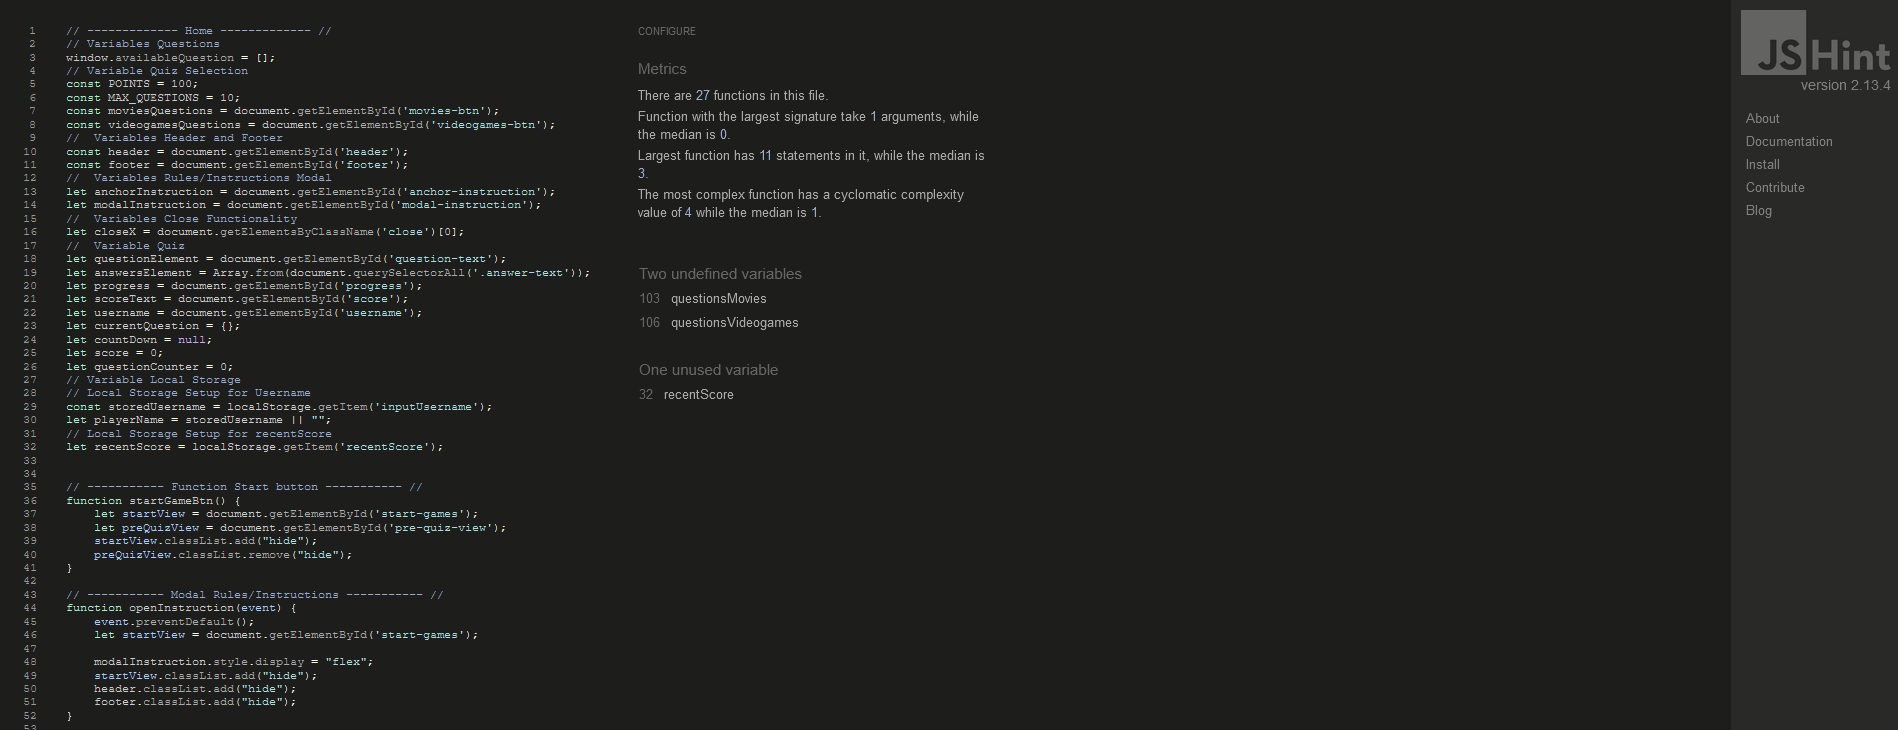
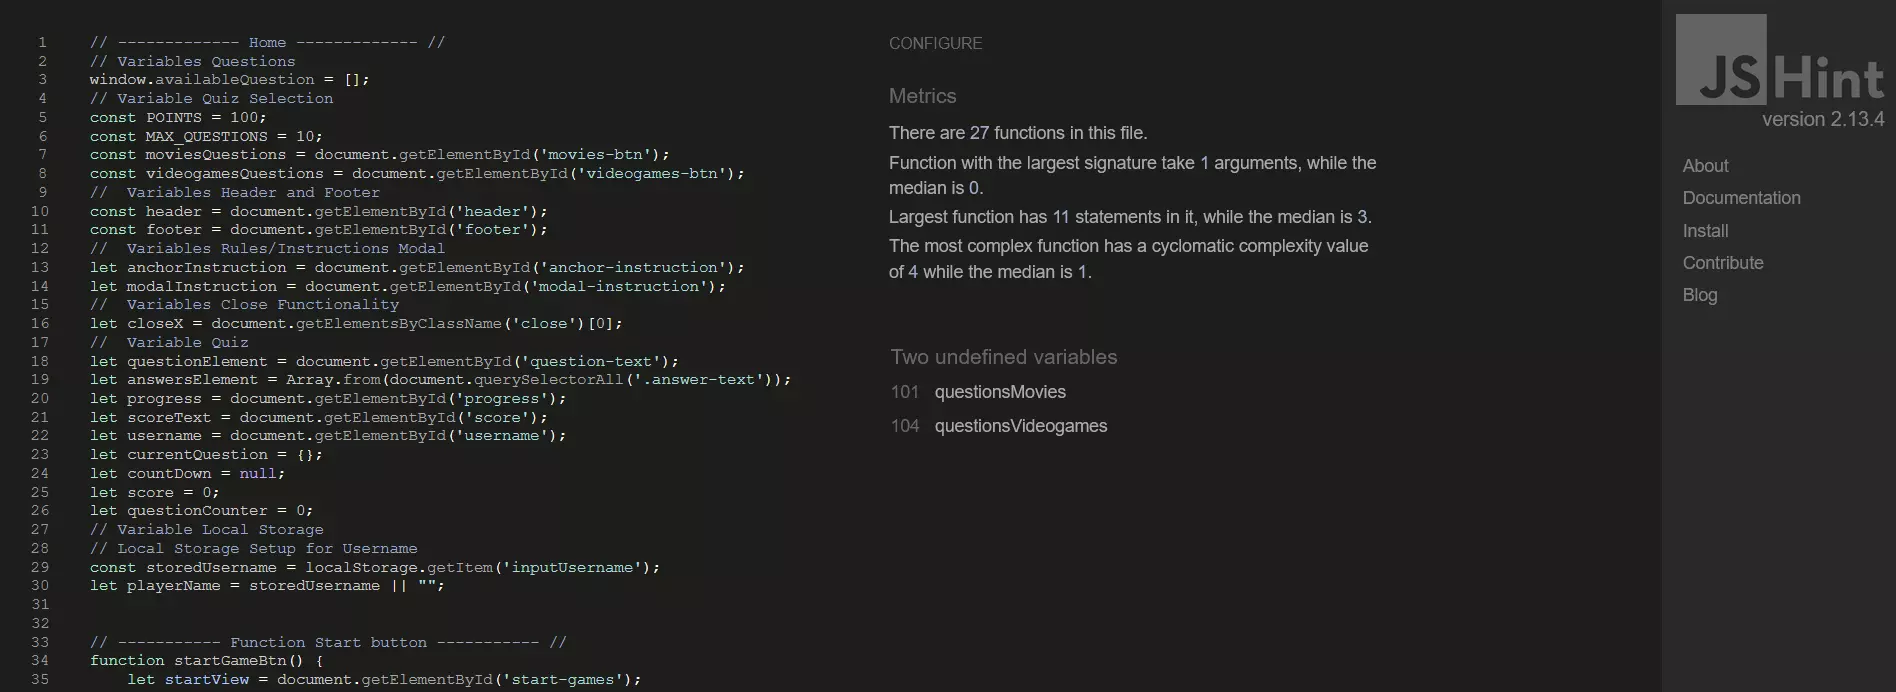
docs: Add jshint images to Readme file and correct typos

diff --git a/assets/js/contact-us.js b/assets/js/contact-us.js
@@ -1,6 +1,5 @@
 // ------------- Contact Us ------------- //
 // ------------- Variables ------------- //
-let userComment = document.getElementById('user-comment');
 let radioTextArea = document.querySelectorAll('input[type=radio][name="form_nfrb"]');
 let resetBtn = document.getElementById('btn-reset');
 
@@ -8,6 +7,7 @@ let resetBtn = document.getElementById('btn-reset');
 function showTextArea() {
     for (let radio of radioTextArea) {
         radio.addEventListener('change', function () {
+            let userComment = document.getElementById('user-comment');
             switch (this.value) {
                 case 'newsletter':
                     userComment.classList.add('hide');
@@ -24,6 +24,7 @@ function showTextArea() {
 }
 
 function hideTextArea() {
+    let userComment = document.getElementById('user-comment');
     resetBtn.addEventListener('click', function () {
         userComment.classList.add('hide');
     });

diff --git a/assets/js/script.js b/assets/js/script.js
@@ -25,11 +25,9 @@ let countDown = null;
 let score = 0;
 let questionCounter = 0;
 // Variable Local Storage
-// Local Storage Setup for Username
+// Username
 const storedUsername = localStorage.getItem('inputUsername');
 let playerName = storedUsername || "";
-// Local Storage Setup for recentScore
-let recentScore = localStorage.getItem('recentScore');
 
 
 // ----------- Function Start button ----------- //

diff --git a/assets/js/quiz-score.js b/assets/js/quiz-score.js
@@ -1,3 +1,5 @@
+/*jshint esversion: 8 */
+
 // ------------- Variable for the API and the Score Limit ------------- //
 const API_URL = "https://quizforfundb-d21e.restdb.io/rest/quiz-for-fun";
 const API_KEY = "621d964834fd621565858a7b";

diff --git a/README.md b/README.md
@@ -11,7 +11,7 @@
 #### Good luck, enjoy the questions and might the force be with you! 
 
 
-<a href="https://ccrocilla.github.io/quiz-for-fun/" target="_blank" rel="noopener noreferrer"><img src="assets/images-readme/amiresponsive.webp" alt="Home Page" width="800px"/></a>
+<a href="https://ccrocilla.github.io/quiz-for-fun/" target="_blank" rel="noopener noreferrer"><img src="assets/images-readme/amiresponsive.webp" alt="Home Page" width="1000px"/></a>
 
 #### Click in the image above to access the Live Website or [click here!](https://ccrocilla.github.io/quiz-for-fun/ "Quiz For Fun")
 
@@ -220,8 +220,8 @@ Sources:
 
 ## **Features**
 - ### *__Structure__*:
-The Website is composed of 5 different pages. Each of these pages has been structured in a simple, easy and user-friendly way. 
-The Structure of the website and the components used are listed below:
+#### The Website is composed of 5 different pages. Each of these pages has been structured in a simple, easy and user-friendly way. 
+#### The Structure of the website and the components used are listed below:
 
 
 - ### *__Home Page__*:
@@ -263,14 +263,14 @@ The Structure of the website and the components used are listed below:
 
 
 - ### *__Thank you page__*:
-This page will be triggered when the user clicks on the Submit Button in Contact Us Page. 
-The page is characterized by an image extended as background overlaid by a clear message for the user.
-This page is used to let the user know that the feedback or the issue/bug has been reported correctly.
-The users also have the possibility to click on the Home button to navigate back to the Home Page. 
+#### This page will be triggered when the user clicks on the Submit Button in Contact Us Page. 
+#### The page is characterized by an image extended as background overlaid by a clear message for the user.
+#### This page is used to let the user know that the feedback or the issue/bug has been reported correctly.
+#### The users also have the possibility to click on the Home button to navigate back to the Home Page. 
 
 - ### *__404 Error Page__*:
-For any broken or incorrect links, the 404 Error page will be triggered. Here the user will have an image displayed in the background and above a text box that will inform the users that the page is not correct. 
-The users also have the possibility to click on the Home button to navigate back to the Home Page. 
+#### For any broken or incorrect links, the 404 Error page will be triggered. Here the user will have an image displayed in the background and above a text box that will inform the users that the page is not correct. 
+#### The users also have the possibility to click on the Home button to navigate back to the Home Page. 
  
 ---
 
@@ -282,7 +282,7 @@ The users also have the possibility to click on the Home button to navigate back
 - ## Home Page 
 <details>
     <summary>Click here for Desktop View</summary>  
-<img src="assets/images-readme/homepage-desktop.webp" alt="Desktop View Homepage" width="800px"/>
+<img src="assets/images-readme/homepage-desktop.webp" alt="Desktop View Homepage" width="1000px"/>
 </details>
 
 <details>
@@ -298,7 +298,7 @@ The users also have the possibility to click on the Home button to navigate back
 - ## Rules Modal 
 <details>
     <summary>Click here for Desktop View</summary>  
-<img src="assets/images-readme/rules-modal-desktop.webp" alt="Desktop View Rules Modal" width="800px"/>
+<img src="assets/images-readme/rules-modal-desktop.webp" alt="Desktop View Rules Modal" width="1000px"/>
 </details>
 
 <details>
@@ -314,7 +314,7 @@ The users also have the possibility to click on the Home button to navigate back
 - ## Pre-Quiz Area
 <details>
     <summary>Click here for Desktop View</summary>
-<img src="assets/images-readme/prequiz-desktop.webp" alt="Desktop View Pre-Quiz" width="800px"/>
+<img src="assets/images-readme/prequiz-desktop.webp" alt="Desktop View Pre-Quiz" width="1000px"/>
 </details>
 
 <details>
@@ -330,7 +330,7 @@ The users also have the possibility to click on the Home button to navigate back
 - ## Quiz Area
 <details>
     <summary>Click here for Desktop View</summary>
-<img src="assets/images-readme/quiz-desktop.webp" alt="Desktop View Share Page" width="800px"/>
+<img src="assets/images-readme/quiz-desktop.webp" alt="Desktop View Share Page" width="1000px"/>
 </details>
 
 <details>
@@ -343,10 +343,26 @@ The users also have the possibility to click on the Home button to navigate back
 <img src="assets/images-readme/quiz-smartphone.webp" alt="Smartphone View Share Page" width="400px"/>
 </details>
 
+- ## Scores
+<details>
+    <summary>Click here for Desktop View</summary>
+<img src="assets/images-readme/scores-desktop.webp" alt="Desktop View Share Page" width="1000px"/>
+</details>
+
+<details>
+    <summary>Click here for Tablet View</summary>
+<img src="assets/images-readme/scores-tablet.webp" alt="Tablet View Share Page" width="600px"/>
+</details>
+
+<details>
+    <summary>Click here for Smartphone View</summary>
+<img src="assets/images-readme/scores-smartphone.webp" alt="Smartphone View Share Page" width="400px"/>
+</details>
+
 - ## Contact Us Page
 <details>
     <summary>Click here for Desktop View</summary>
-<img src="assets/images-readme/contactus-desktop.webp" alt="Desktop View Contact Us Page" width="800px"/>
+<img src="assets/images-readme/contactus-desktop.webp" alt="Desktop View Contact Us Page" width="1000px"/>
 </details>
 
 <details>
@@ -362,33 +378,33 @@ The users also have the possibility to click on the Home button to navigate back
 - ## Thanks You Page
 <details>
     <summary>Click here for Desktop View</summary>
-<img src="" alt="Desktop View Thank You Page" width="800px"/>
+<img src="assets/images-readme/thankyou-desktop.webp" alt="Desktop View Thank You Page" width="1000px"/>
 </details>
 
 <details>
     <summary>Click here for Tablet View</summary>
-<img src="" alt="Tablet View Thank You Page" width="600px"/>
+<img src="assets/images-readme/thankyou-tablet.webp" alt="Tablet View Thank You Page" width="600px"/>
 </details>
 
 <details>
     <summary>Click here for Smartphone View</summary>
-<img src="" alt="Smartphone View Thank You Page" width="400px"/>
+<img src="assets/images-readme/thankyou-smartphone.webp" alt="Smartphone View Thank You Page" width="400px"/>
 </details>
 
 - ## 404 Error Page
 <details>
     <summary>Click here for Desktop View</summary>
-<img src="" alt="Desktop View Error 404 Page" width="800px"/>
+<img src="assets/images-readme/404error-desktop.webp" alt="Desktop View Error 404 Page" width="1000px"/>
 </details>
 
 <details>
     <summary>Click here for Tablet View</summary>
-<img src="" alt="Tablet View  Error 404 Page" width="600px"/>
+<img src="assets/images-readme/404error-tablet.webp" alt="Tablet View  Error 404 Page" width="600px"/>
 </details>
 
 <details>
     <summary>Click here for Smartphone View</summary>
-<img src="" alt="Smartphone View Error 404 Page" width="400px"/>
+<img src="assets/images-readme/404error-smartphone.webp" alt="Smartphone View Error 404 Page" width="400px"/>
 </details>
 
 ---
@@ -437,50 +453,70 @@ The users also have the possibility to click on the Home button to navigate back
 ## **Testing**
 The testing phases have been carried out using the **W3C Javascript Validator**, **W3C CSS Validator** and **W3C Markup Validator** (for all pages). No errors have been identified from the Validators as can be seen in the screenshot below: 
 
-- **JavaScript**
 
+- **JavaScript**
 <details>
-    <summary>Click here for W3C Javascript Validator</summary>
-<img src="" alt="W3C Javascript Validator - Home Page" width="800"/>
+    <summary>Click here for W3C Javascript Validator - Script </summary>
+<img src="assets/images-readme/jshint-script.webp" alt="W3C Javascript Validator - Home Page" width="1000px"/>
 </details>
 
-- **CSS**
+<details>
+    <summary>Click here for W3C Javascript Validator - Questions </summary>
+<img src="assets/images-readme/jshint-questions.webp" alt="W3C Javascript Validator - Home Page" width="1000px"/>
+</details>
 
 <details>
+    <summary>Click here for W3C Javascript Validator - Quiz Score</summary>
+<img src="assets/images-readme/jshint-quiz-score.webp" alt="W3C Javascript Validator - Home Page" width="1000px"/>
+</details>
+
+<details>
+    <summary>Click here for W3C Javascript Validator - Contact Us</summary>
+<img src="assets/images-readme/jshint-contactus.webp" alt="W3C Javascript Validator - Home Page" width="1000px"/>
+</details>
+
+<details>
+    <summary>Click here for W3C Javascript Validator - Navigation Bar Menu</summary>
+<img src="assets/images-readme/jshint-navbar-menu.webp" alt="W3C Javascript Validator - Home Page" width="1000px"/>
+</details>
+
+
+- **CSS**
+<details>
     <summary>Click here for W3C CSS Validator</summary>
-<img src="" alt="W3C Markup Validator - Home Page" width="800"/>
+<img src="assets/images-readme/w3c-css.webp" alt="W3C Markup Validator - Home Page" width="1000px"/>
 </details>
 
 <details>
     <summary>Click here for W3C CSS Validator - Warning</summary>
-<img src="" alt="W3C Markup Validator - Home Page" width="800"/>
+<img src="assets/images-readme/w3c-css-warning.webp" alt="W3C Markup Validator - Home Page" width="1000px"/>
 </details>
 
-- **HTML**
 
+- **HTML**
 <details>
     <summary>Click here for W3C Markup Validator - Home Page</summary>
-<img src="" alt="W3C Markup Validator - Home Page" width="800px"/>
+<img src="assets/images-readme/w3c-html-homepage.webp" alt="W3C Markup Validator - Home Page" width="1000px"/>
 </details>
 
 <details>
     <summary>Click here for W3C Markup Validator - Scores</summary>
-<img src="" alt="W3C Markup Validator - Home Page" width="800px"/>
+<img src="assets/images-readme/w3c-html-scorespage.webp" alt="W3C Markup Validator - Home Page" width="1000px"/>
 </details>
 
 <details>
     <summary>Click here for W3C Markup Validator - Contact Us</summary>
-<img src="" alt="W3C Markup Validator - Contact Us" width="800px"/>
+<img src="assets/images-readme/w3c-html-contactuspage.webp" alt="W3C Markup Validator - Contact Us" width="1000px"/>
 </details>
 
 <details>
     <summary>Click here for W3C Markup Validator - Thank You</summary>
-<img src="" alt="W3C Markup Validator - Thank You" width="800px"/>
+<img src="assets/images-readme/w3c-html-thankyoupage.webp" alt="W3C Markup Validator - Thank You" width="1000px"/>
 </details>
 
 <details>
     <summary>Click here for W3C Markup Validator - Error 404</summary>
-<img src="" alt="W3C Markup Validator - Error 404" width="800px"/>
+<img src="assets/images-readme/w3c-html-404errorpage.webp" alt="W3C Markup Validator - Error 404" width="1000px"/>
 </details>
 
 
@@ -607,7 +643,7 @@ Additional tests include checks on different devices using the Toggle Device Emu
 ### **Bugs**
 - No bugs have been found in the website during the test phase.
 
-### Future Implementation
+### **Future Implementation**
 - Difficulty Points: In future implementations different point scores will be assigned depending on the difficulty level selected by the user. 
 This will also be reflected in the Leaderboard visualization with 3 different associated Leaderboards. The user will have the possibility to switch using an Easy, Medium or Hard button located below the Leaderboard title. 
  
@@ -676,7 +712,7 @@ In order to create a Local Clone follow the steps below:
 Thanks to my Mentor, Narender Singh, for his guide and support for the realization of this project.
 Thanks to the useful references and suggestions derived from the sources listed below, I manage to gain a deeper understanding of how the various elements/components of HTML, CSS and Javascript are used. In addition, continuous trial and error tests provided a useful means to further experiment on the usage of these three programming languages for the creation of the site.
 
-- ### Content & Media
+- ### **Content & Media**
 All of the contents on the website are customised and no design frameworks have been used for the realization of the site.
 The idea of the Logo, the nav bar and the Footer were taken from the Love Running Project analysing and customizing their implementation for the created website and implementing an additional feature for the mobile version(Hamburger Menu).
 In order to consolidate the knowledge acquired during the Code Institute Course dedicated to the javascript part (as well as the HTML and CSS), I have also studied and explored the writing part of the code and the best practices using the sites listed below. 
